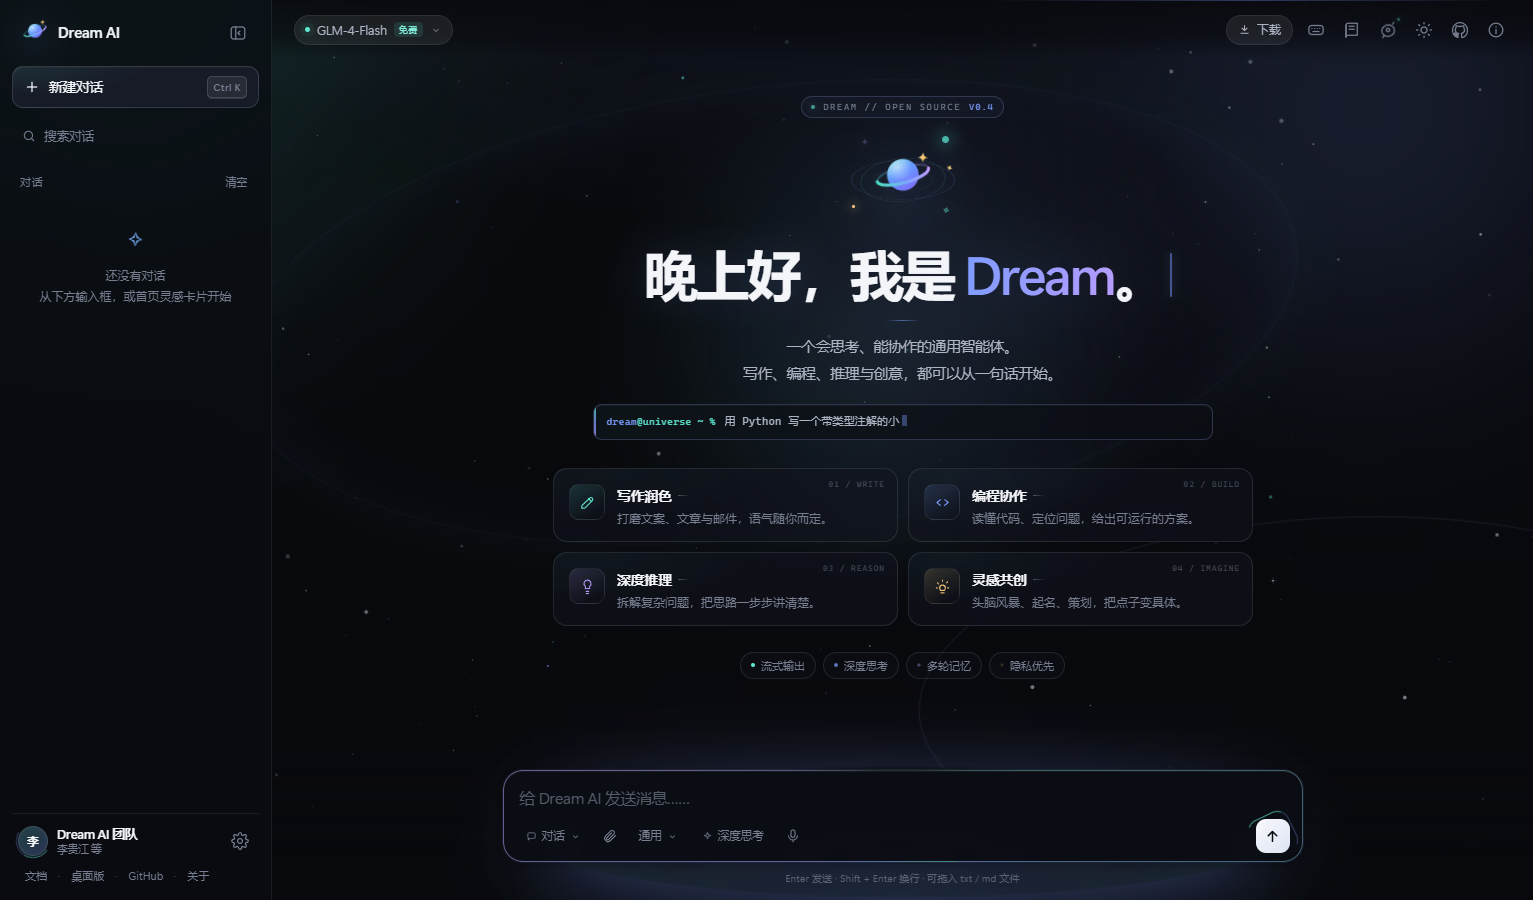
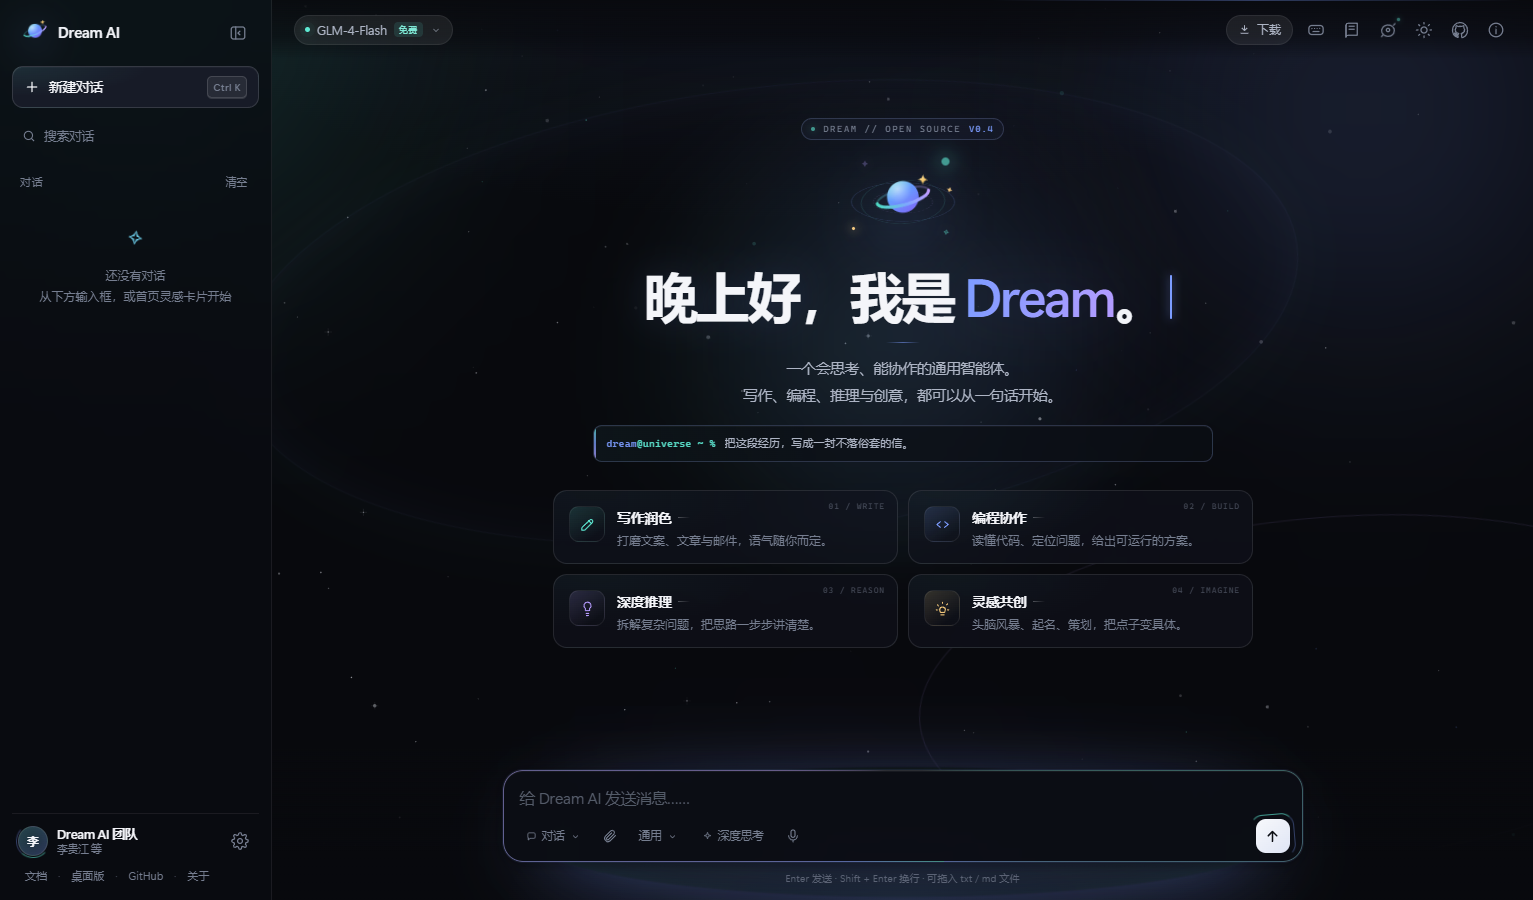
style(web): remove hero capability chips and refresh the preview

diff --git a/web/web/assets/css/landing.css b/web/web/assets/css/landing.css
@@ -971,50 +971,6 @@
   }
 }
 
-.hero__meta {
-  margin-top: 25px;
-  animation: lm-fade-up 0.9s var(--motion-ease) 0.48s both;
-}
-
-.hero__meta span {
-  border-color: color-mix(in srgb, var(--line-2) 76%, transparent);
-  background: color-mix(in srgb, var(--surface) 26%, transparent);
-  backdrop-filter: blur(8px);
-  transition: border-color 0.22s, color 0.22s, transform 0.22s;
-}
-
-.hero__meta span:hover {
-  color: var(--text-2);
-  border-color: color-mix(in srgb, var(--accent) 32%, var(--line));
-  transform: translateY(-2px);
-}
-
-.hero__meta i {
-  animation: lm-meta-led 3.4s ease-in-out infinite;
-}
-
-.hero__meta span:nth-child(2) i {
-  background: var(--accent);
-  animation-delay: 0.5s;
-}
-
-.hero__meta span:nth-child(3) i {
-  background: var(--violet);
-  animation-delay: 1s;
-}
-
-.hero__meta span:nth-child(4) i {
-  background: var(--gold);
-  animation-delay: 1.5s;
-}
-
-@keyframes lm-meta-led {
-  50% {
-    opacity: 0.2;
-    transform: scale(0.7);
-  }
-}
-
 /* --------------------------------------------------------------------------
    Composer: an orbital ring / light-well
    -------------------------------------------------------------------------- */
@@ -1382,7 +1338,6 @@
   .hero__eyebrow,
   .hero__sub,
   .hero__terminal,
-  .hero__meta,
   .card {
     animation: none;
   }

diff --git a/web/web/index.html b/web/web/index.html
@@ -24,9 +24,9 @@
 <link rel="icon" type="image/svg+xml" href="/assets/img/mark.svg">
 <link rel="apple-touch-icon" href="/assets/img/apple-touch-icon.png">
 <link rel="manifest" href="/manifest.webmanifest">
-<link rel="stylesheet" href="/assets/css/app.css?v=2.0.0">
+<link rel="stylesheet" href="/assets/css/app.css?v=2.0.1">
 <link rel="stylesheet" href="/assets/css/motion.css?v=2.0.0">
-<link rel="stylesheet" href="/assets/css/landing.css?v=2.0.0">
+<link rel="stylesheet" href="/assets/css/landing.css?v=2.0.1">
 </head>
 <body>
 <div class="ambient" aria-hidden="true">
@@ -233,13 +233,6 @@
             <span class="card__pulse" aria-hidden="true"></span>
             <svg class="card__arrow" viewBox="0 0 24 24" aria-hidden="true"><path d="M7 17 17 7M9 7h8v8"/></svg>
           </button>
-        </div>
-
-        <div class="hero__meta">
-          <span><i></i>流式输出</span>
-          <span><i></i>深度思考</span>
-          <span><i></i>多轮记忆</span>
-          <span><i></i>隐私优先</span>
         </div>
       </section>
 

diff --git a/web/web/assets/css/app.css b/web/web/assets/css/app.css
@@ -1233,33 +1233,6 @@ html[data-theme="light"] .model-badge.is-key {
   transform: translate(0, 0);
 }
 
-.hero__meta {
-  display: flex;
-  flex-wrap: wrap;
-  justify-content: center;
-  gap: 7px;
-  margin-top: 30px;
-  animation: rise 0.9s var(--ease) 0.24s both;
-}
-
-.hero__meta span {
-  display: inline-flex;
-  align-items: center;
-  gap: 6px;
-  padding: 4px 10px;
-  border-radius: 999px;
-  border: 1px solid var(--line);
-  color: var(--text-3);
-  font-size: 11px;
-}
-
-.hero__meta i {
-  width: 4px;
-  height: 4px;
-  border-radius: 50%;
-  background: var(--teal);
-}
-
 /* ---------- Chat ---------- */
 .chat {
   width: 100%;
@@ -3975,10 +3948,6 @@ body.desktop-app .app {
     grid-template-columns: 1fr;
     gap: 8px;
     margin-top: 26px;
-  }
-
-  .hero__meta {
-    display: none;
   }
 
   .composer-dock {

diff --git a/CHANGELOG.md b/CHANGELOG.md
@@ -49,6 +49,9 @@ and this project adheres to [Semantic Versioning](https://semver.org/spec/v2.0.0
 
 ### Changed — documentation
 
+- Removed the four hero capability chips (“流式输出 / 深度思考 / 多轮记忆 / 隐私优先”) from the
+  landing page. They read as generic AI-product boilerplate and added noise after the capability
+  cards. The homepage preview used by the docs was refreshed.
 - `README.md`, `web/README.md`, `docs/README.md`, `docs/ARCHITECTURE.md`, `docs/ROADMAP.md` and
   `docs/GUIDE.md` now document the motion layer, the web 2.0 version, the new `/motion` command and
   the still-separate web request path.

diff --git a/web/README.md b/web/README.md
@@ -16,7 +16,7 @@ small FastAPI service. No front-end framework and no Node build step.
 - **Source:** <https://github.com/Li-Guijiang/DreamAI/tree/main/web>
 
 <p align="center">
-  <img src="https://github.com/user-attachments/assets/8b840543-f6f1-40e3-9533-e9f6a320931c" alt="Dream AI home page with a cosmic hero, typing greeting and animated cards" width="100%">
+  <img src="https://github.com/user-attachments/assets/b377efc9-3f0f-4225-a92e-210b02aa980d" alt="Dream AI home page with a cosmic hero, typing greeting and animated cards" width="100%">
 </p>
 
 ## 1. A living interface

diff --git a/README.md b/README.md
@@ -75,7 +75,7 @@ The three version numbers are independent by design, not by drift: see the [vers
 
 | Home | Chat |
 |---|---|
-| ![Home](https://github.com/user-attachments/assets/8b840543-f6f1-40e3-9533-e9f6a320931c) | ![Chat](https://github.com/user-attachments/assets/5ae723c7-dfa7-49d9-a5ca-61d496ba7bf7) |
+| ![Home](https://github.com/user-attachments/assets/b377efc9-3f0f-4225-a92e-210b02aa980d) | ![Chat](https://github.com/user-attachments/assets/5ae723c7-dfa7-49d9-a5ca-61d496ba7bf7) |
 
 | Work mode | Desktop |
 |---|---|
